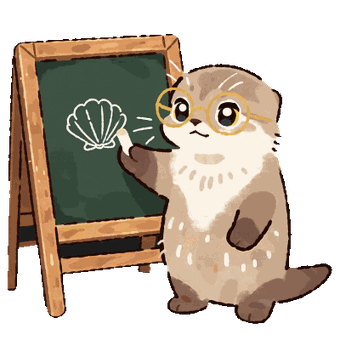
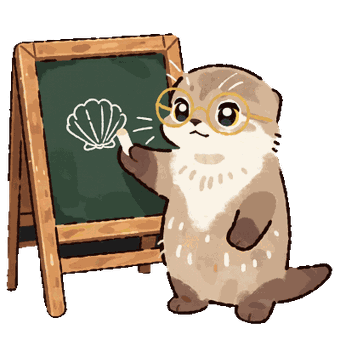
fix(01.1-02): key otters without halo and keep opaque alpha
- Snap palette alpha after FASTOCTREE quantize, which turned opaque
  pixels into alpha 254
- Exact-color flood fill (thresh 0) so the wrench outline is not eaten
- Grow the keyed area by one pixel (MinFilter 3) to drop the dark fringe
- Regenerate the three otter PNGs with --force (nothing pushed yet)

diff --git a/scripts/build_email_assets.py b/scripts/build_email_assets.py
@@ -7,8 +7,8 @@ Run from the repo root:
 Reads the five PNGs in the phase 1.1 figma-assets directory and writes
 docs/assets/email/v1/. Banners become JPEGs flattened on white. The tool,
 magnifier and chalkboard otters were exported on an opaque (30, 30, 30) Figma
-canvas, so the background is keyed out with a border flood-fill and the result
-is saved as a quantized PNG with real alpha.
+canvas, so the background is keyed out with an exact-color border flood-fill,
+grown by one pixel to drop the anti-aliased fringe, and the result is saved as a quantized PNG with real alpha.
 
 Published files are immutable: an existing output is left alone unless
 --force is given. Only use --force before the first push; new art goes to v2/.
@@ -27,8 +27,11 @@ OUT_DIR = Path("docs/assets/email/v1")
 
 CANVAS = (30, 30, 30)
 KEY = (255, 0, 255)
-FLOOD_THRESH = 12
+# The canvas is exactly (30, 30, 30). The wrench outline is about (33, 35, 41),
+# so any tolerance above 0 lets the flood-fill eat parts of the drawing.
+FLOOD_THRESH = 0
 JPEG_QUALITY = 72
+ALPHA_SNAP = 4
 
 BANNERS = {
     "otter-banner.png": "otter-banner.jpg",
@@ -70,7 +73,22 @@ def key_background(im: Image.Image) -> Image.Image:
 def build_otter(src: Path, out: Path, size: int) -> None:
     rgba = key_background(Image.open(src))
     small = rgba.resize((size, size), Image.Resampling.LANCZOS)
-    small.quantize(256, method=Image.Quantize.FASTOCTREE).save(out, "PNG", optimize=True)
+    pal = small.quantize(256, method=Image.Quantize.FASTOCTREE)
+    # FASTOCTREE buckets alpha too and turns fully opaque pixels into 254.
+    # Snap the palette alpha back so the body is opaque and the key is clear.
+    entries = pal.getpalette("RGBA")
+    for i in range(3, len(entries), 4):
+        entries[i] = _snap_alpha(entries[i])
+    pal.putpalette(entries, "RGBA")
+    pal.save(out, "PNG", optimize=True)
+
+
+def _snap_alpha(a: int) -> int:
+    if a >= 255 - ALPHA_SNAP:
+        return 255
+    if a <= ALPHA_SNAP:
+        return 0
+    return a
 
 
 def build_banner(src: Path, out: Path) -> None:
